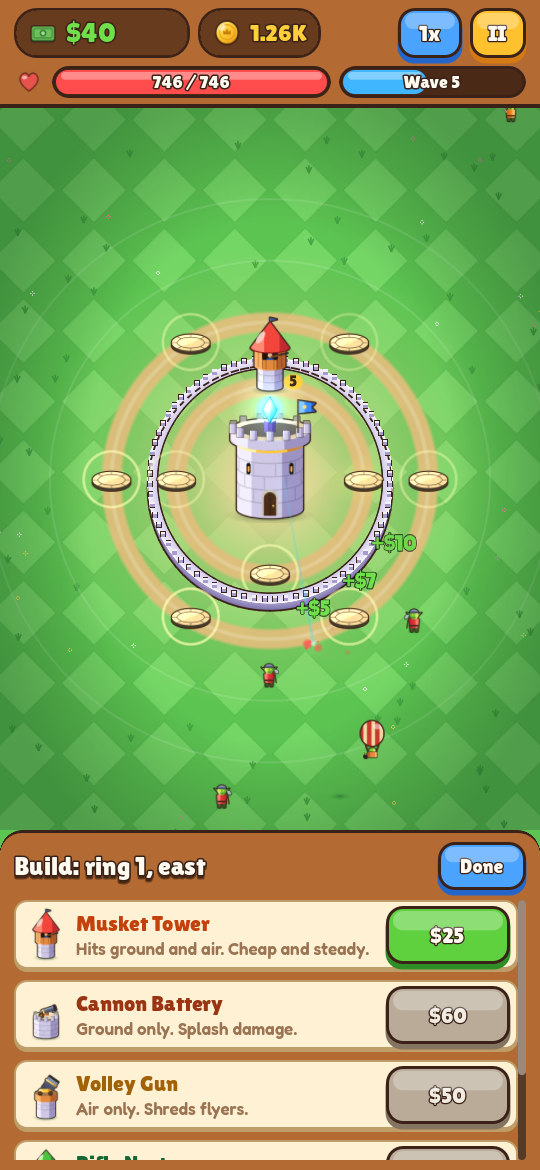
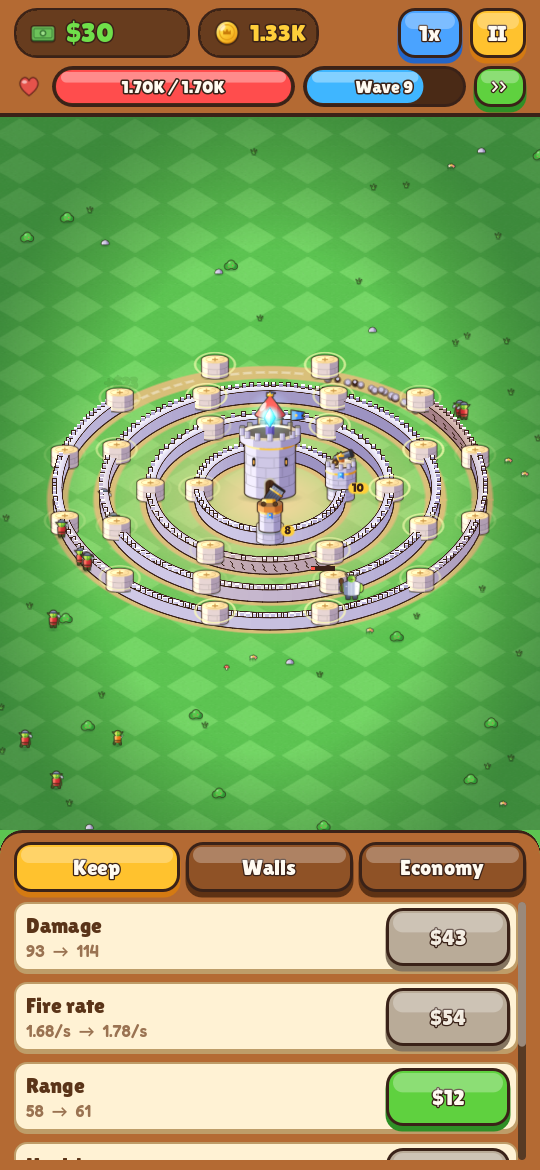
Flintkeep: offline earnings, early wave calls, docs and screenshots
- Offline earnings: coins for time away (up to 8 hours), scaled to the best
  wave, collected from a "Welcome back" card on the menu
- A >> button calls the next wave early once the current one has arrived,
  paying cash for the time skipped
- Screenshot tool can show the offline card and select a wall section
- README and design doc cover towers on walls, fortifying, the tilted camera,
  tower looks, new enemies and the new features (49 tests)

Claude-Session: https://claude.ai/code/session_01BvL328y9Z9Sn3bASVxGtVr

diff --git a/apps/games/02-flintkeep/docs/GAME_DESIGN.md b/apps/games/02-flintkeep/docs/GAME_DESIGN.md
@@ -35,6 +35,19 @@ its silhouette alone.
 - **Sound:** soft pops, chimes and little bugle calls (not harsh chiptune), plus a bouncy
   music loop. Rapid-fire sounds are quieter and rate-limited so a big wave stays pleasant.
 
+## Camera and depth
+
+The battlefield is seen by a camera tilted about 50 degrees: the ground layer (grass,
+courtyard, paths, range circles) is squashed vertically to 60%, while walls, pedestals,
+towers, enemies and decorations are drawn upright and sorted back to front. Walls have
+height with a lit face on the near side. It is still 2D (cheap on phones); the code is in
+`game/battle_view.gd` (`proj()`) and `game/wall_drawer.gd`.
+
+## Tower looks
+
+Each weapon has three looks, one new detail per step: level 1 plain, level 5 adds a gold band
+and a banner, level 10 adds a golden crown and a gem.
+
 ## Retention features
 
 - **First-run tutorial:** five short tips: build a tower (with a pointer), what waves are,
@@ -43,6 +56,10 @@ its silhouette alone.
   reach a wave, build or upgrade towers, build walls, defeat a Juggernaut), sized to the
   player's best wave, each paying coins. The day is chosen by date, so the list is stable across
   restarts. The menu's Missions button turns green when one is ready to claim.
+- **Offline earnings:** while the game is closed the garrison collects coins (6 + 2 x best
+  wave x tier per hour, for up to 8 hours), shown on a "Welcome back" card.
+- **Call the next wave early:** once a wave has finished arriving, the >> button starts the
+  next one immediately and pays cash for the time skipped.
 
 ## The loop
 
@@ -87,10 +104,13 @@ multiplier).
   start; rings 2–4 are unlocked by research, in order. Slots grow with ring size, so a new
   player has 4 decisions and a veteran has 30. We used 4 rather than 2 for ring 1 because
   enemies come from every side.
-- **Walls:** each ring can be walled for cash. A wall is split into one section per slot.
-  Ground enemies stop at the first intact section in their path and hack at it; once it
-  breaks they march to the next ring in, or to the Keep. Walls can be reinforced (more HP,
-  fully healed) or repaired. Flyers ignore walls.
+- **Towers stand on the walls.** Every slot is a stone pedestal on its ring's wall line, and
+  the wall **sections are the arcs between neighbouring towers** (ring 1: N-E, E-S, S-W, W-N).
+  Tap an arc to buy that section; the Walls tab can also buy all missing sections at once.
+  Finishing every section of a ring **fortifies** it: +50% wall HP and +15% damage for that
+  ring's towers. Ground enemies stop at the first built, intact section in their path and hack
+  at it; gaps let them through. Walls can be reinforced (more HP, fully healed) or repaired.
+  Flyers ignore walls.
 - The camera starts close and zooms out once you have three rings, so the castle always
   fills the screen.
 
@@ -119,6 +139,8 @@ towers **start one level higher** and makes their in-run upgrades 4% cheaper (up
 | War Balloon | 5 | flyer; drops bombs on the Keep |
 | Brute | 6 | armoured: blocks 50% of physical damage, so bring cannons or magic |
 | Wyvern | 12 | fast flyer; warded: blocks 50% of magic |
+| Sapper | 8 | carries a bomb: blows up against the first wall (or the Keep) and pays nothing |
+| Shaman | 15 | heals raiders within reach by 4% of their health a second |
 | Juggernaut | every 10th wave | boss: huge health, armour and ward |
 
 Enemy health grows 11.5% per wave, damage 7% per wave. Each tier multiplies enemy stats

diff --git a/apps/games/02-flintkeep/README.md b/apps/games/02-flintkeep/README.md
@@ -12,9 +12,12 @@ Design: [`docs/GAME_DESIGN.md`](docs/GAME_DESIGN.md).
 ## Status
 
 - [x] Endless runs: waves every 24 s, a boss every 10th wave, tiers unlocked at wave 25
-- [x] The Keep plus 4 rings of build slots (4 / 6 / 8 / 12) and walls split into sections
+- [x] The Keep plus 4 rings of towers (4 / 6 / 8 / 12) standing on their walls; wall sections
+      between towers are bought one at a time, and a finished ring is fortified
+- [x] A tilted "3D" camera: the ground squashes into ellipses, everything else stands upright
 - [x] 5 weapons (musket, cannon, volley gun, rifle nest, arcane spire), armour and ward
-- [x] 6 enemies (raider, runner, brute, war balloon, wyvern, juggernaut)
+- [x] 8 enemies (raider, runner, brute, sapper, shaman, war balloon, wyvern, juggernaut), with
+      walking animations; towers look grander at levels 5 and 10
 - [x] Cash upgrades during a run: Keep, walls, economy (bounty, coin bounty, interest)
 - [x] Coins and research with 2 timed labs that keep running while the game is closed
 - [x] Saving, best wave per tier, coins banked every wave
@@ -24,6 +27,7 @@ Design: [`docs/GAME_DESIGN.md`](docs/GAME_DESIGN.md).
 - [x] Sound effects and a music loop (synthesised), with Music and Sound switches in Settings
 - [x] First-run tutorial with a pointer to the first foundation
 - [x] Daily missions: three goals a day that pay coins
+- [x] Offline earnings (up to 8 hours) and calling the next wave early for bonus cash
 - [x] Settings: music, sound effects, reset progress
 - [x] Tests (rules, research, saves, missions, number formatting) and a balance check that plays whole runs
 - [ ] Store screenshots, adaptive Android icon layers
